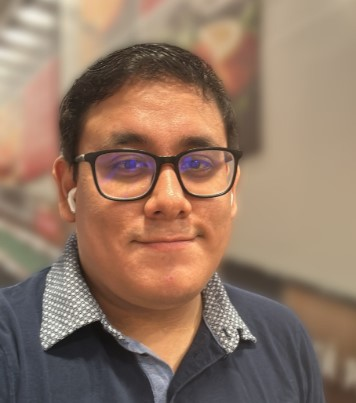
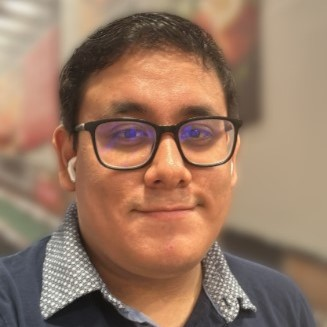
fix: profile photo

diff --git a/README.md b/README.md
@@ -1,12 +1,7 @@
 <p align="center">
-  <img src="assets/profile.jpg" alt="Piero Casusol" width="80" height="80">
-  <style>
-  img{
-    border-radius: 50%;
+  <img src="assets/profile.jpg" alt="Piero Casusol" width="80" height="80" style="border-radius: 50%;
     object-fit: cover;
-    border: 5px solid black;
-  }    
-  </style>
+    border: 5px solid black;">
 </p>
 
 # Hi there! 👋 I'm Piero Alejandro Casusol Vargas
